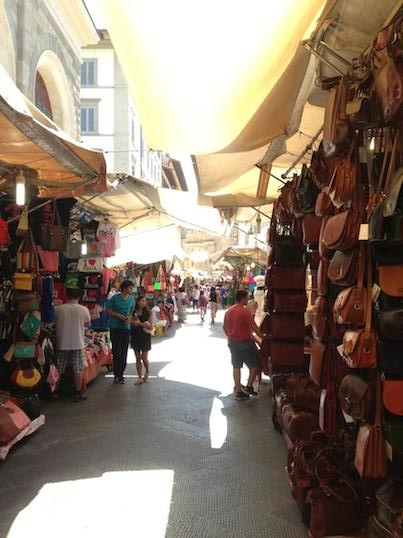
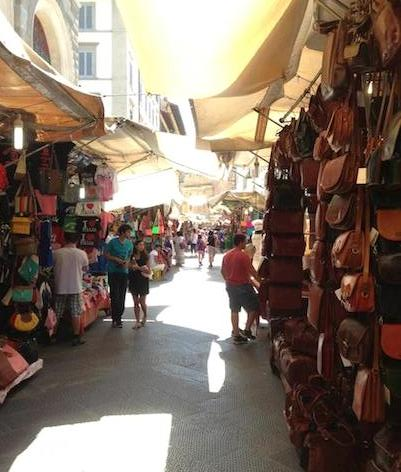
done except for animation

diff --git a/js/hindsight-data.js b/js/hindsight-data.js
@@ -77,7 +77,7 @@ var imgs = [
         src: "heavenly.jpg",
         month: "feb",
         big: true,
-        desc: "First snowboarding trip. Car riddles. Hotel hot tub. Heavenly. Scramble to find hotel. Chinese food Happy Family. Four Lokos. Kirkwood. First black."
+        desc: "First Tahoe weekend. Car riddles. Hotel hot tub. Heavenly. Scramble to find hotel. Chinese food Happy Family. Four Lokos. Kirkwood. First black."
 
       },
       {
@@ -141,8 +141,8 @@ var imgs = [
 
       },
       {
-        width: 291,
-        height: 466,
+        width: 286,
+        height: 407,
         src: "tennis.jpg",
         month: "mar",
         desc: "GoPro Tennis. Lessons. $15 gym pact. Good job Naveen."
@@ -204,7 +204,7 @@ var imgs = [
         src: "snowboard.jpg",
         month: "mar",
         big: true,
-        desc: "Second snowboard trip. Zipcar. Taylor Swift entire ride. Kirkwood. Sandy learns unreasonably fast. Capisce Italian food. Beer hunt. Fizz Buzz. Heavenly. Nope moguls. Off the Hook Sushi. Mark mainstream music."
+        desc: "Second Tahoe weekend. Zipcar. Taylor Swift entire ride. Kirkwood. Sandy learns unreasonably fast. Capisce Italian food. Beer hunt. Fizz Buzz. Heavenly. Nope moguls. Off the Hook Sushi. Mark mainstream music."
 
       },
       {
@@ -476,8 +476,8 @@ var imgs = [
 
       },
       {
-        width: 441,
-        height: 588,
+        width: 439,
+        height: 505,
         src: "unc.jpg",
         month: "aug",
         desc: "Day at UNC. Panera catchup. Where is Davie Poplar? Settlers at Brian's. SVSM BBQ. Sakura. Avengers. Harris Teeter. Geocache. Elmo's."
@@ -492,8 +492,8 @@ var imgs = [
 
       },
       {
-        width: 504,
-        height: 672,
+        width: 401,
+        height: 472,
         src: "florence.jpg",
         month: "aug",
         desc: "Florence. Plus. City jog. 66cl for 90 cents. EuroTrip. Gypsy market. Piazza Michelangelo. Hole in wall restaurants."
@@ -696,6 +696,20 @@ var imgs = [
         height: 538,
         src: "christmas_market.jpg",
         month: "dec",
-        desc: "Fetes des Lumieres. Worst ferris wheel ever. Operation Sunglasses."
+        desc: "Fetes des Lumieres. Worst ferris wheel ever. Operation Sunglasses. All the vin chaud"
+      },
+      {
+        width: 691,
+        height: 518,
+        src: "arcs.jpg",
+        month: "dec",
+        desc: "Les Arcs daytrip. Nathan ski slayer. Must touch the clouds."
+      },
+      {
+        width: 404,
+        height: 451,
+        src: "secret_santa.jpg",
+        month: "dec",
+        desc: "Secret Santa. Tree decorating. Playboy. Feet massage. Beer sampler. Giant chocolate."
       }
     ];

diff --git a/js/hindsight.js b/js/hindsight.js
@@ -51,13 +51,8 @@ $(function() {
   });
 
   var setGalleryHeight = function() {
-    if (window.innerWidth <= 599) {
-      $gallery.height("100%");
-      return;
-    }
-
     var galHeight = 0,
-        padding = 40;
+        padding = window.innerWidth > 599 ? 40 : 20;
 
     $('.gal-el').each(function() {
       var $this = $(this);
@@ -241,6 +236,11 @@ $(function() {
             var height = imgs[i].height / imgs[i].width * imgWidth;
             $(img).height(height);
           });
+
+          if (window.innerWidth > 599)
+            $overlay.css("top", scrollY + "px");
+          else
+            $overlay.css("top", "0px");
 
           setGalleryHeight();
        }, 100);

diff --git a/resume/index.html b/resume/index.html
@@ -16,7 +16,7 @@
   <![endif]-->
   <link rel="stylesheet" type="text/css" href="/css/resume.css">
   <script src="http://ajax.googleapis.com/ajax/libs/jquery/1.7.2/jquery.min.js"></script>
-  <script>window.jQuery || document.write('<script src="jquery-1.7.2.min.js"><\/script>')</script>
+  <script>window.jQuery || document.write('<script src="/js/jquery-1.7.2.min.js"><\/script>')</script>
   <script type="text/javascript" src="/js/jquery.history.js"></script>
 </head>
 

diff --git a/_posts/2013-12-19-20-13-hindsight.md b/_posts/2013-12-19-20-13-hindsight.md
@@ -33,11 +33,11 @@ I probably won't get a chance to post again til after the holidays so here's an
 early Merry Christmas and Happy New Year! Looking forward to all that's in store 
 for 2014.
 
-<script 
-src="http://ajax.googleapis.com/ajax/libs/jquery/1.7.2/jquery.min.js"></script>
-<script type="text/javascript" 
-src="//cdnjs.cloudflare.com/ajax/libs/masonry/3.1.2/masonry.pkgd.min.js"></script>
-<script type="text/javascript" 
-src="//cdn.jsdelivr.net/jquery.lazyload/1.9.1/jquery.lazyload.min.js"></script>
+<script src="http://ajax.googleapis.com/ajax/libs/jquery/1.7.2/jquery.min.js"></script>
+<script>window.jQuery || document.write('<script src="/js/jquery-1.7.2.min.js"><\/script>')</script>
+<script type="text/javascript" src="//cdnjs.cloudflare.com/ajax/libs/masonry/3.1.2/masonry.pkgd.min.js"></script>
+<script>window.Masonry || document.write('script src="/js/masonry.min.js"><\/script>')</script>
+<script type="text/javascript" src="//cdn.jsdelivr.net/jquery.lazyload/1.9.1/jquery.lazyload.min.js"></script>
+<script>jQuery().lazyload || document.write('<script src="/js/jquery.lazyload.min.js"><\/script>')</script>
 <script type="text/javascript" src="/js/hindsight-data.js"></script>
 <script type="text/javascript" src="/js/hindsight.js"></script>
